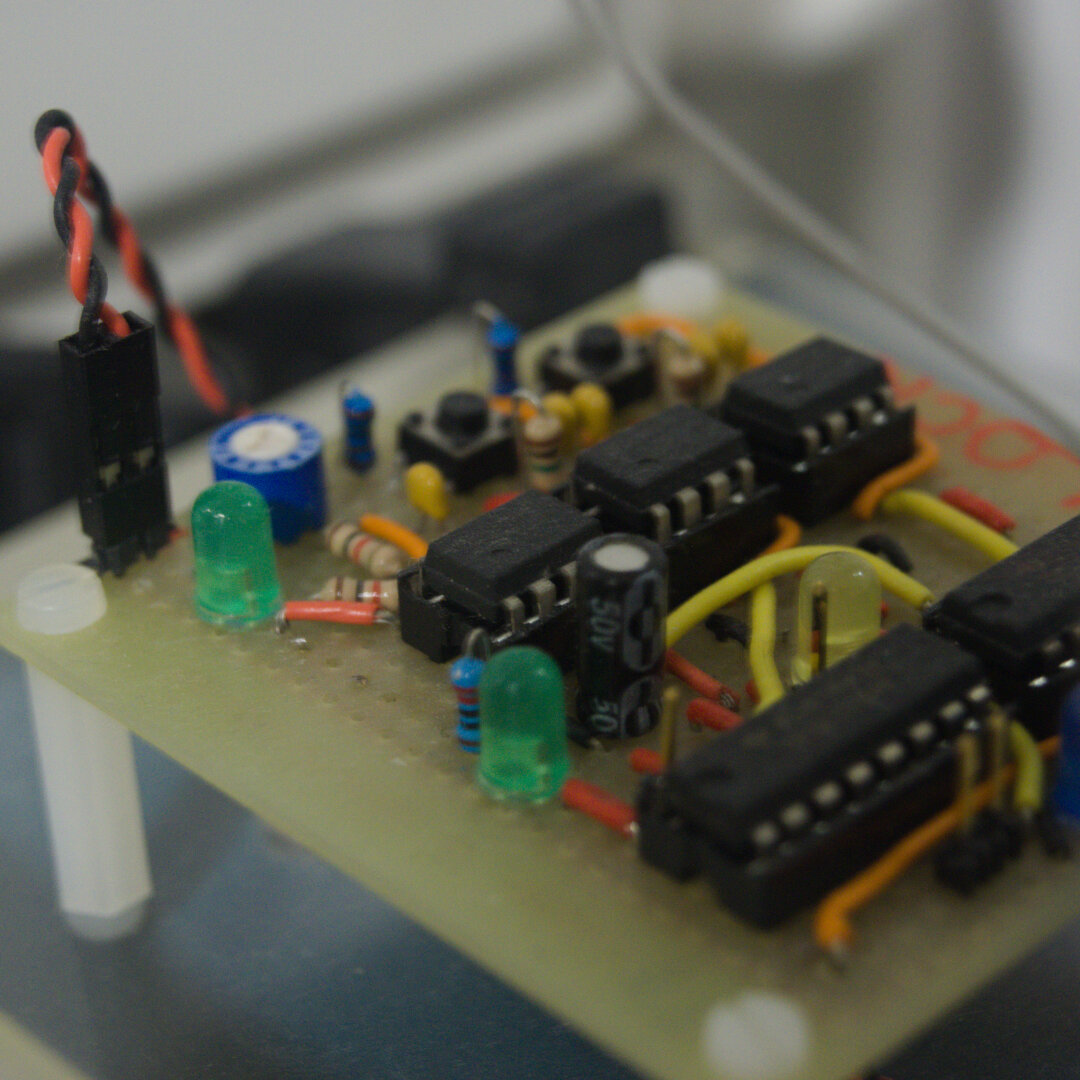
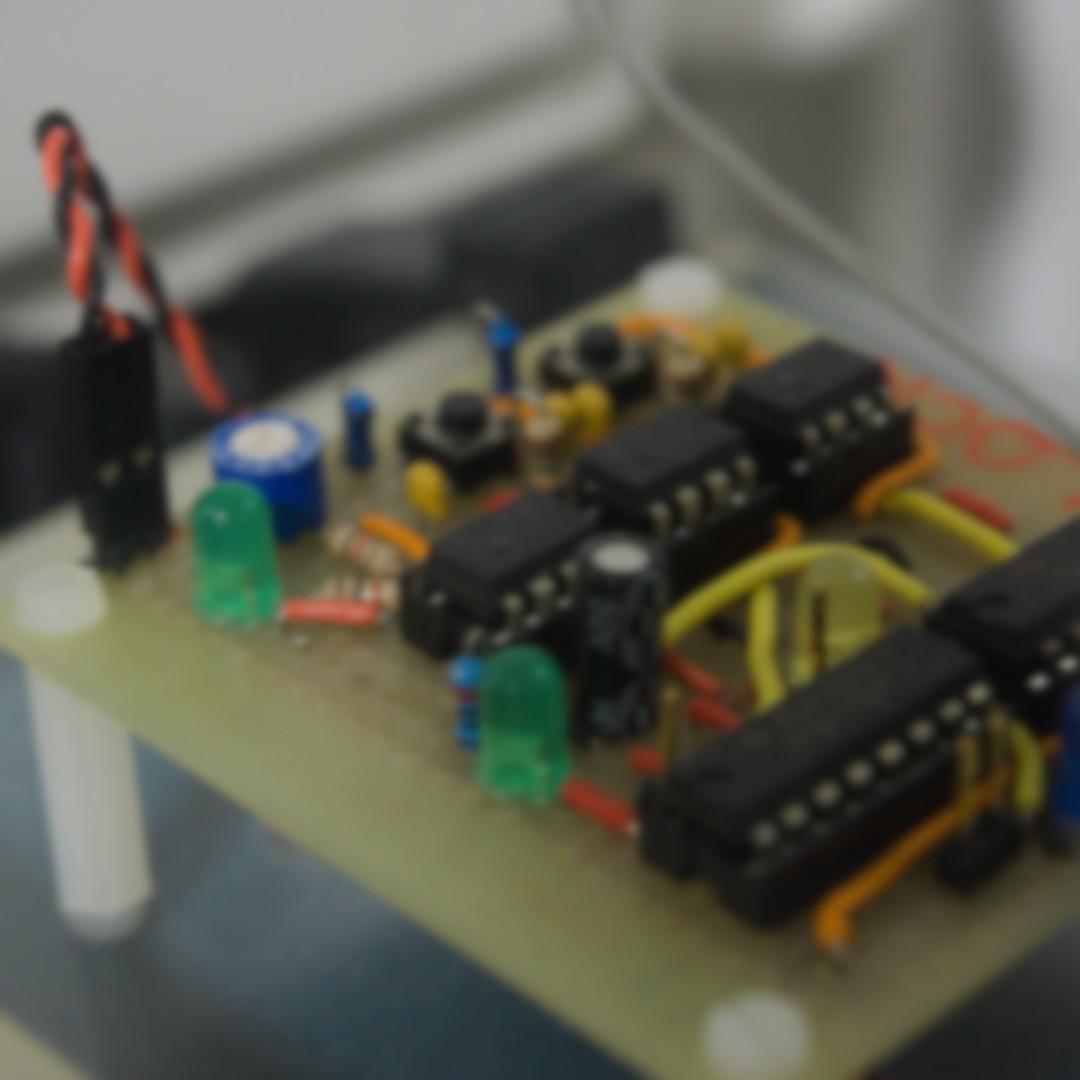
Precomputed blur on background image

diff --git a/style.css b/style.css
@@ -13,7 +13,7 @@ body {
     background-repeat: no-repeat;
     background-size: cover;
     background-attachment: fixed;
-    backdrop-filter: blur(4px);
+/*    backdrop-filter: blur(4px);   Disabled for beeing too slow */
 }
 
 header, #content {
